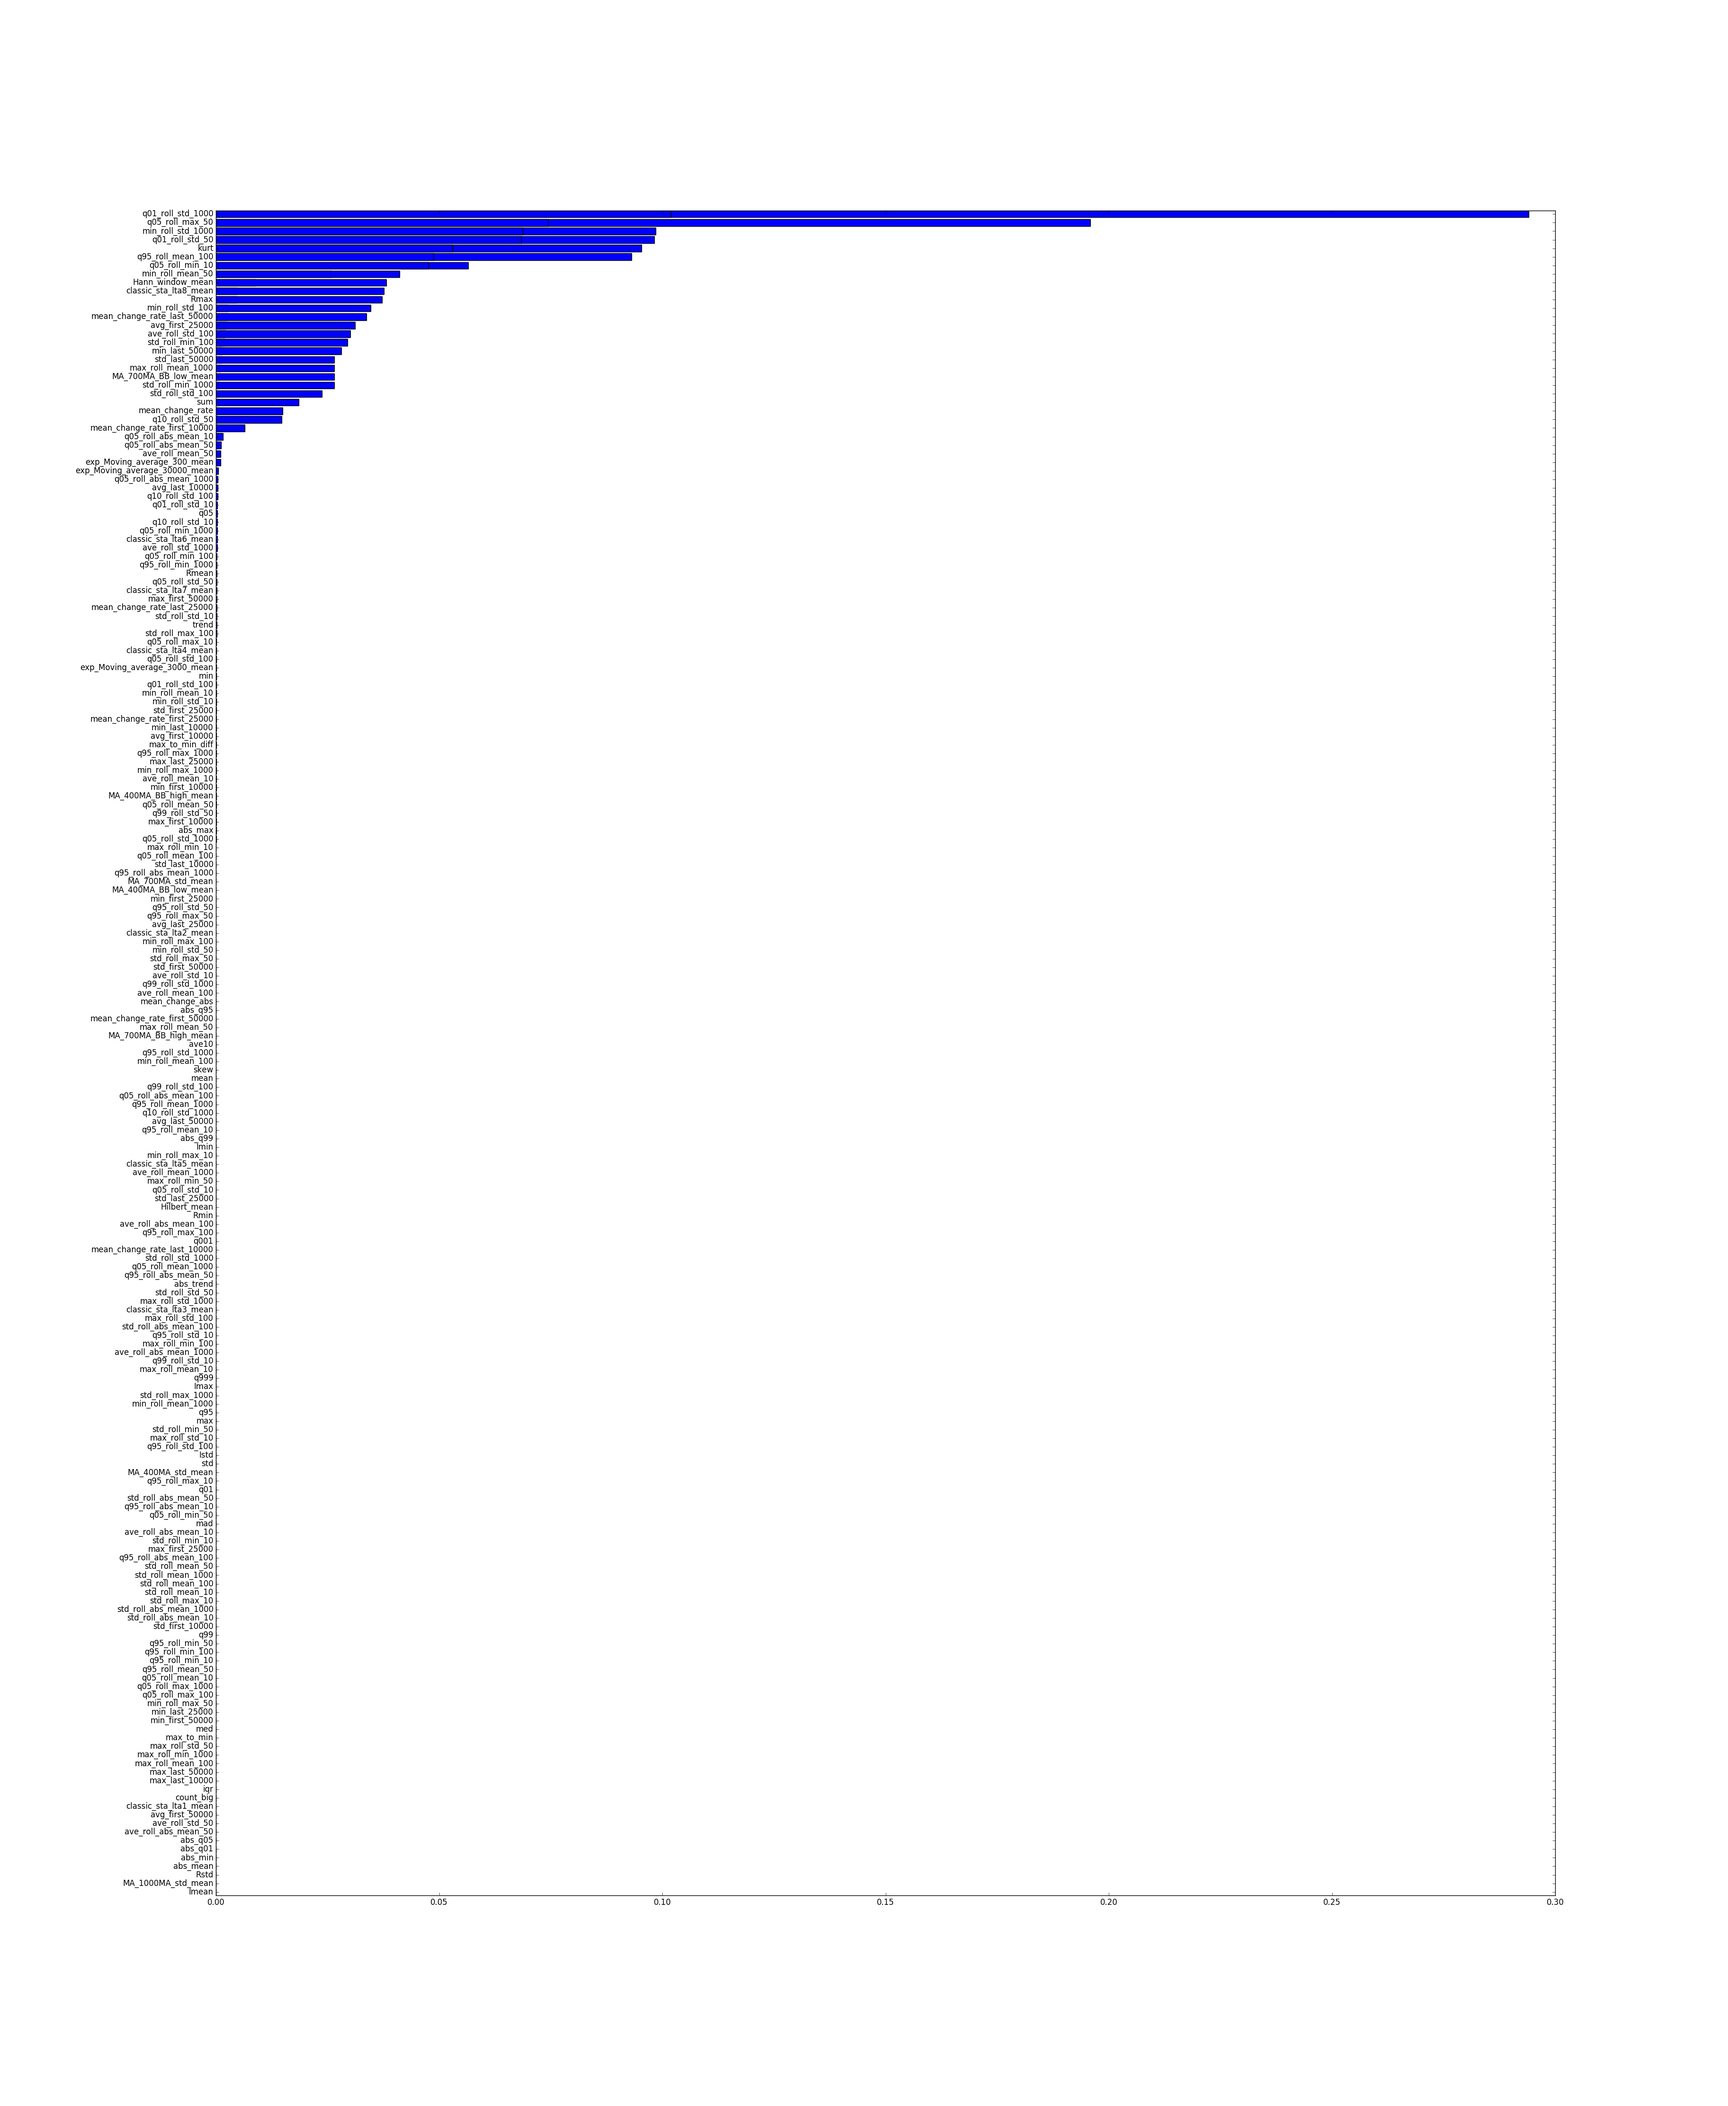
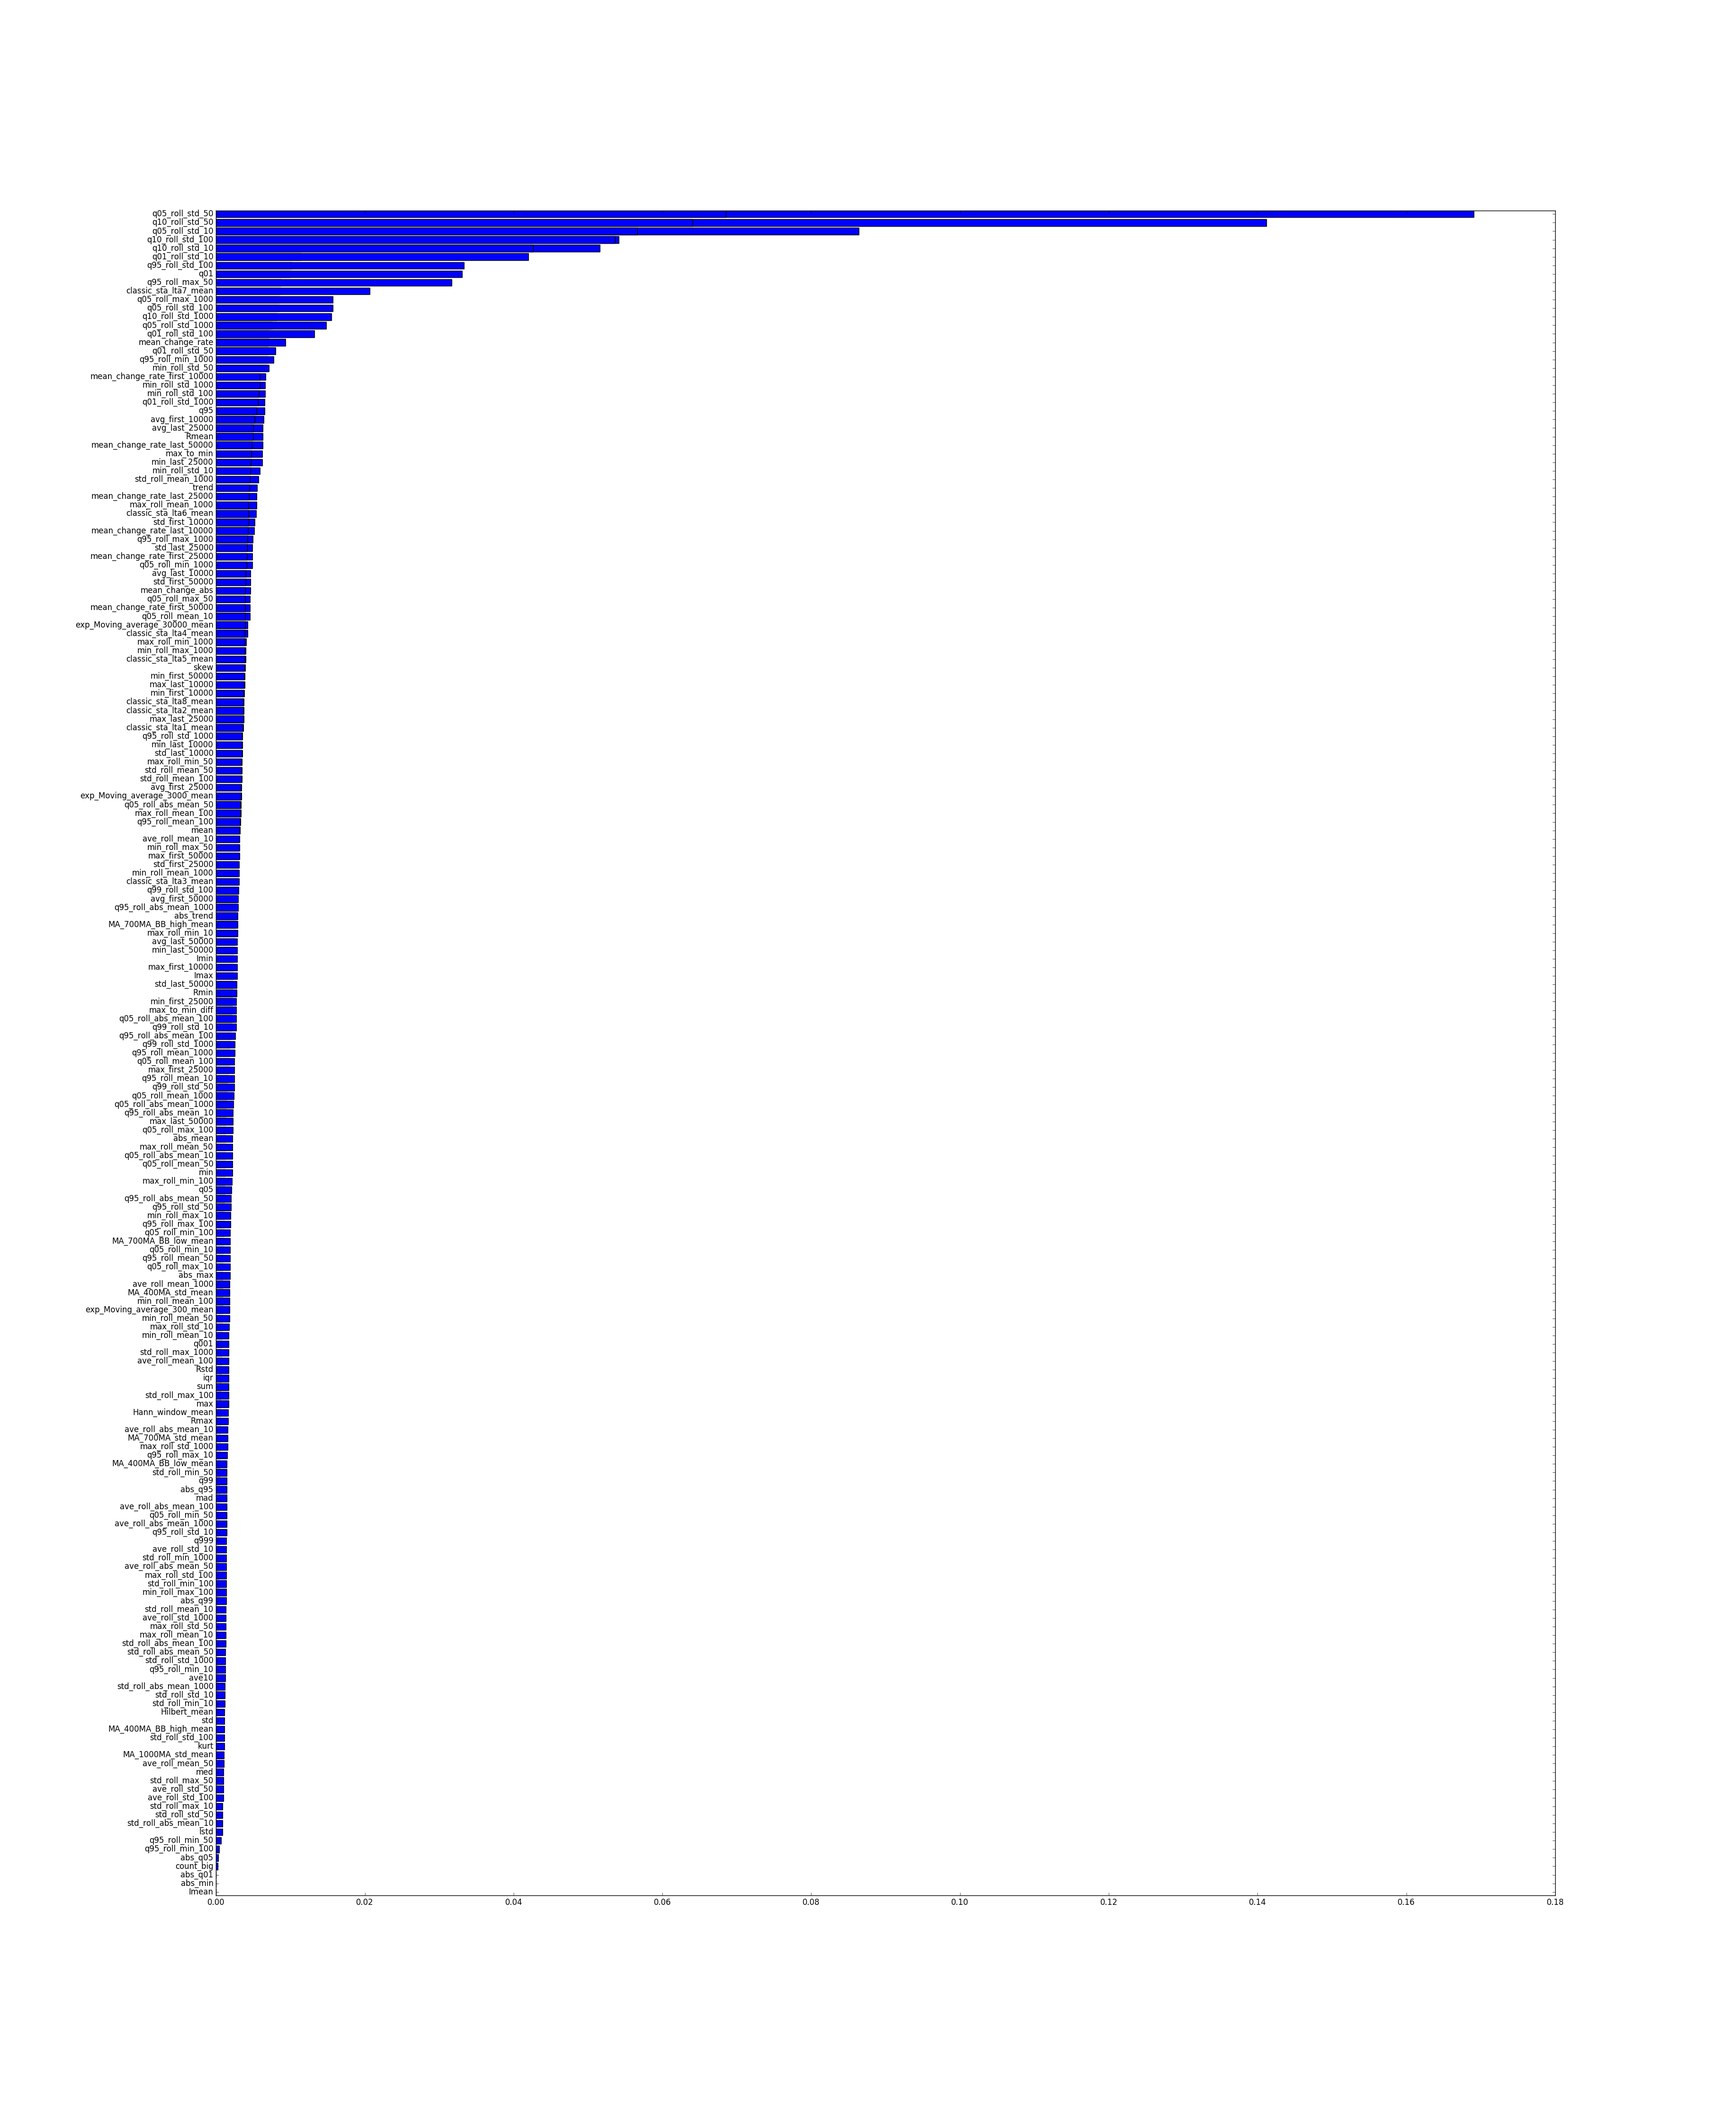
Generate feature importance plots - 4000

Changed region(s): [[0.0625, 0.0937, 0.2811, 0.9058], [0.3123, 0.0937, 0.4997, 0.1249], [0.6247, 0.0937, 0.7184, 0.1249]]

diff --git a/main.py b/main.py
@@ -34,7 +34,7 @@ pd.set_option('display.float_format', '{:20,.60f}'.format)
 pd.set_option('display.max_colwidth', -1)
 
 n_rows = 150000
-n_data = 50
+n_data = 4000
 read_data_row = n_rows * n_data
 skip_data_row = 0
 
